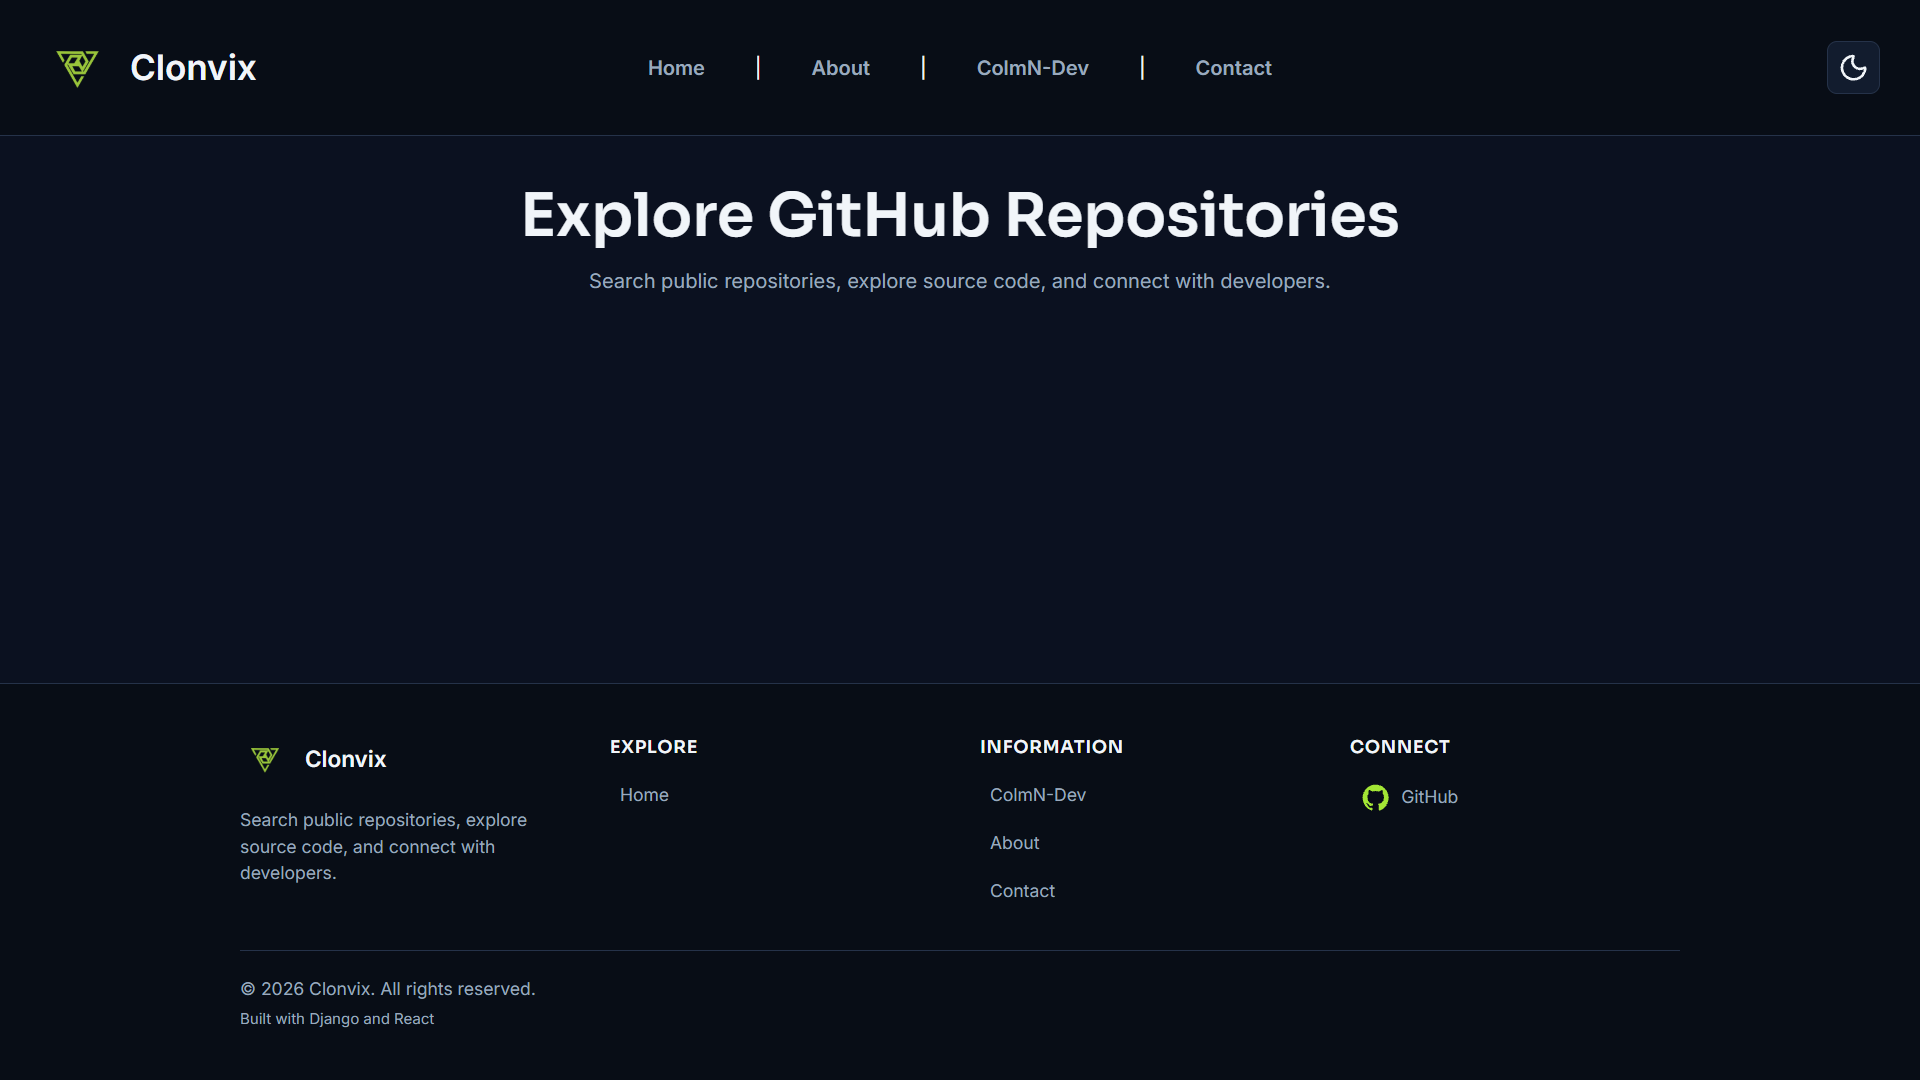
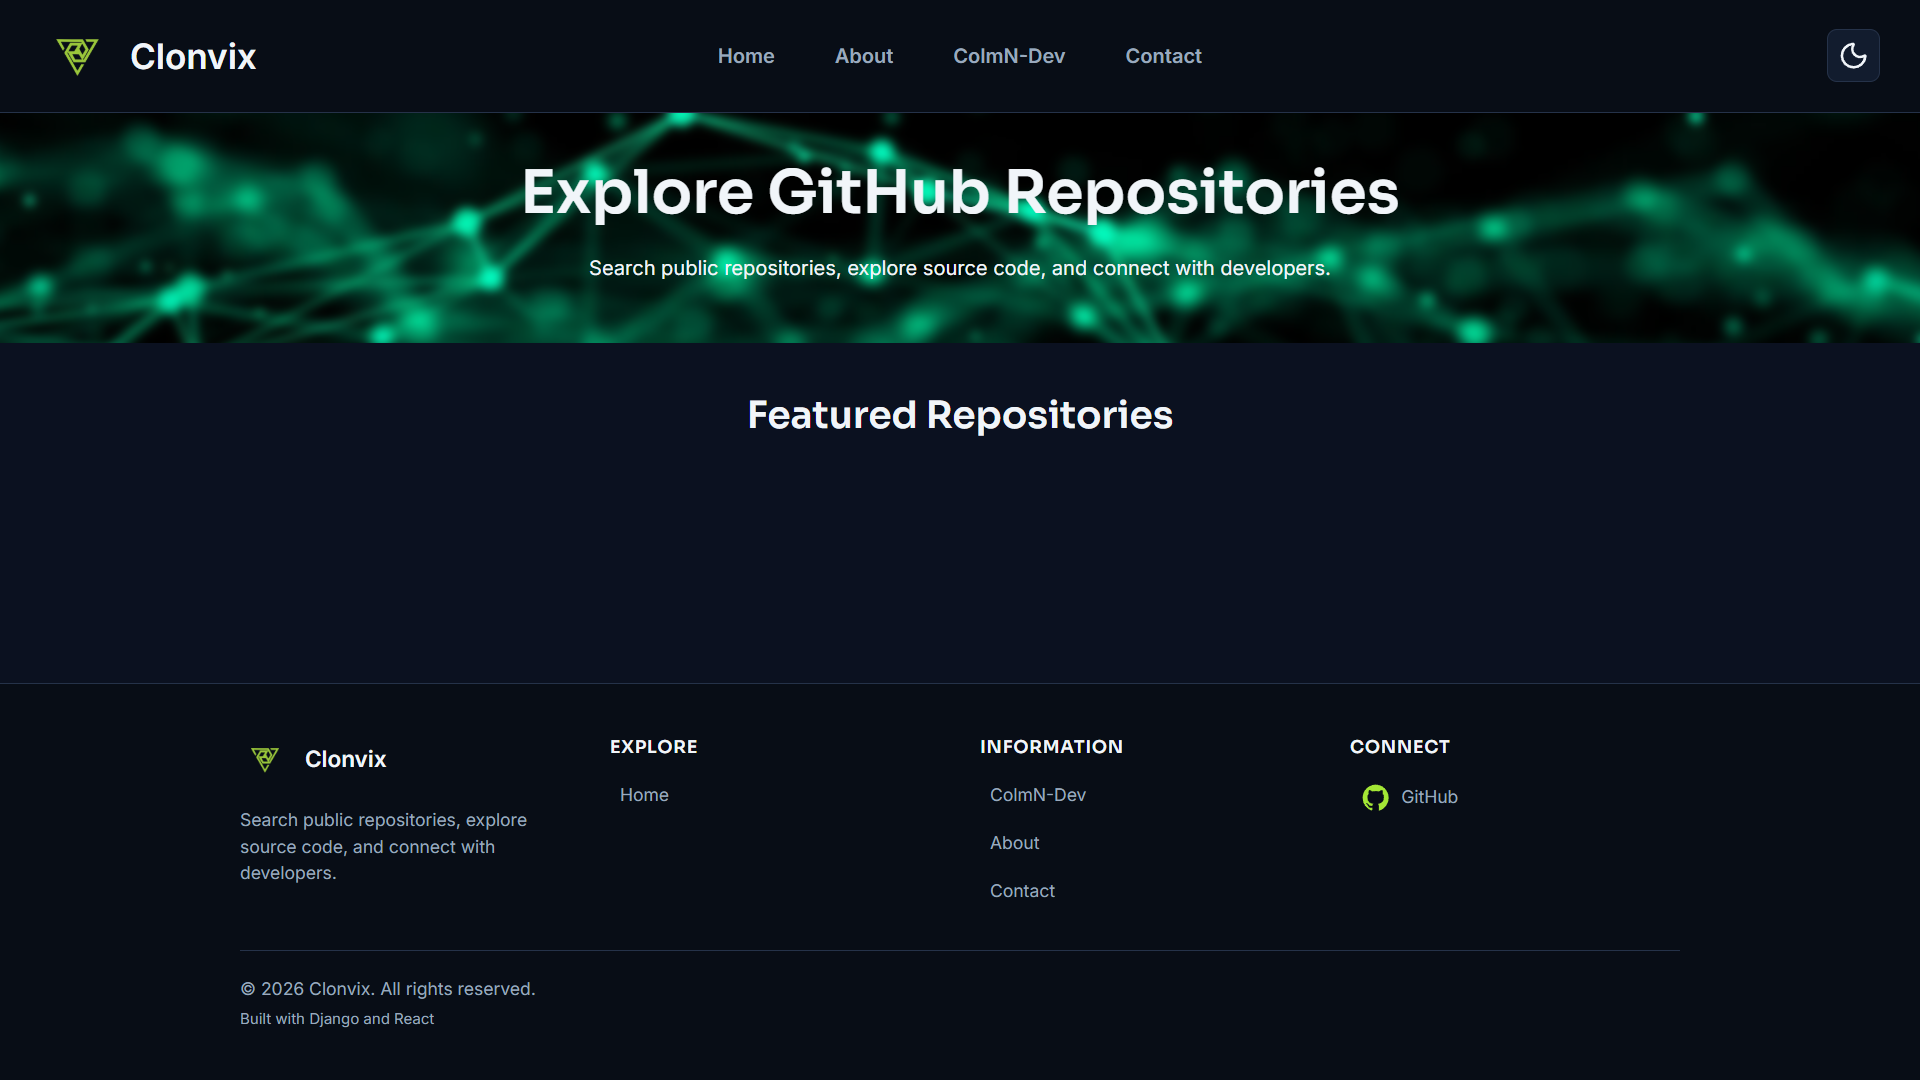
docs(presentation): add presentation-03 Project Update

diff --git a/docs/presentations/presentation-03.md b/docs/presentations/presentation-03.md
@@ -1,0 +1,120 @@
+# Presentation 3 — Project Update
+
+## Progress Summary
+
+Live at [clonvix.onrender.com](https://clonvix.onrender.com)
+
+### Achievements
+
+- Custom user model with email login
+- React Router with Home, About, ColmN-Dev and Contact pages
+- Responsive header and footer with a hamburger menu
+- System, Light and Dark theme toggle
+- Homepage hero section started
+- Deployed on Render with Neon PostgreSQL
+- `repositories` app created, GitHub tokens configured
+- README and documentation updated
+
+### Homepage Progress
+
+![Homepage v1 dark](/docs/images/homepage-v1-dark.png)
+
+![Homepage v1 light](/docs/images/homepage-v1-light.png)
+
+### Next Steps
+
+- GitHub API client and repository search
+- Homepage search bar, carousels and trending repositories
+- Repository cards and detail page
+- Registration, login and profiles
+
+## User Roles
+
+| Role | What they can do | Status |
+|---|---|---|
+| Guest | Search and browse public repositories and profiles; sees "Login to save" | Pages and layout built; search to come |
+| Registered User | Save repositories, follow developers, manage profile and GitHub connection | User model built; login and profiles to come |
+| GitHub Integration | Developers discoverable without a Clonvix account; follows kept separate from GitHub | Token set up; GitHub App planned |
+
+## Features Breakdown with Dependencies
+
+| Feature | Depends on | Status |
+|---|---|---|
+| Foundation and deployment | Django, React, Neon, Render | Done |
+| Layout, navigation and theme | Foundation | Done |
+| Authentication | Custom user model | Model done; login to do |
+| Repository discovery | GitHub client, `repositories` app, token | Client to build |
+| Repository details | Repository discovery | Not started |
+| Repository saving | Authentication, `SavedRepository`, repository cards | Not started |
+| Following developers | Authentication, `Follow`, `GitHubFollow` | Not started |
+| User profiles | Authentication, profile data | Not started |
+| GitHub connection and login | Authentication, GitHub App | Not started |
+
+### Order of Work
+
+- Deployment first, so every feature can be tested live
+- User model before other tables, as they link to it
+- GitHub client next, as search, cards and details depend on it
+
+### GitHub Code Structure
+
+- `github_client.py` makes the raw GitHub API calls
+- `services.py` adds caching and shapes the data
+- `views.py` and `urls.py` send results to React
+
+## Potential Challenges with Contingency Plans
+
+### Met So Far
+
+| Challenge | Solution |
+|---|---|
+| Serving React from Django | WhiteNoise, a build script and a catch-all route, built and checked step by step |
+| Theme following the OS and the user's choice | `data-theme` attribute only when the user picks Light or Dark |
+| Mobile menu covering the theme dropdown | Raised the dropdown's `z-index`; made the menu scrollable on short screens |
+
+### Still Ahead
+
+| Challenge | Contingency Plan |
+|---|---|
+| GitHub rate limits or outages | Server-side token, caching, clear errors with retry |
+| Expired GitHub token | Check the token first if requests fail; tokens expire after a set period |
+| Authentication and GitHub linking | Test each flow separately; validate accounts before linking |
+| Inconsistent saved state | Shared React components and one backend API |
+| Scope and time | Core features first; trending repositories last |
+
+## User Flow with Mock Interactions
+
+- User finds a repository, views details and saves it
+- Guests are asked to log in or register before saving
+- Saved repositories are reached from the profile page
+- **Built so far:** pages and navigation
+- **Still to come:** search, repository details, saving
+
+### User Journey
+
+![Clonvix User Journey](/docs/images/user-journey.png)
+
+## Site Map with Navigation Logic
+
+- Main navigation: repository discovery and developer profiles
+- After login: Saved Repositories and Account Settings
+- Your Repositories only shows when GitHub is connected
+- **Built so far:** Home, About, ColmN-Dev and Contact in the header
+- On small screens the links move into a slide-out menu
+
+### What Changed from the Plan
+
+- Frontend and backend deployed as one Render service
+- Separate `repositories` app added for GitHub features
+
+### Site Map
+
+![Site Map](/docs/images/clonvix-site-map.png)
+
+## Learnings
+
+- Serving a built React app from Django with WhiteNoise and a build script
+- React Router, TypeScript and hooks for the header, menu and theme toggle
+- CSS variables with a `data-theme` attribute and the OS preference
+- Separating code by responsibility, and GitHub features from accounts
+- Keeping tokens in environment variables, separate for local and production
